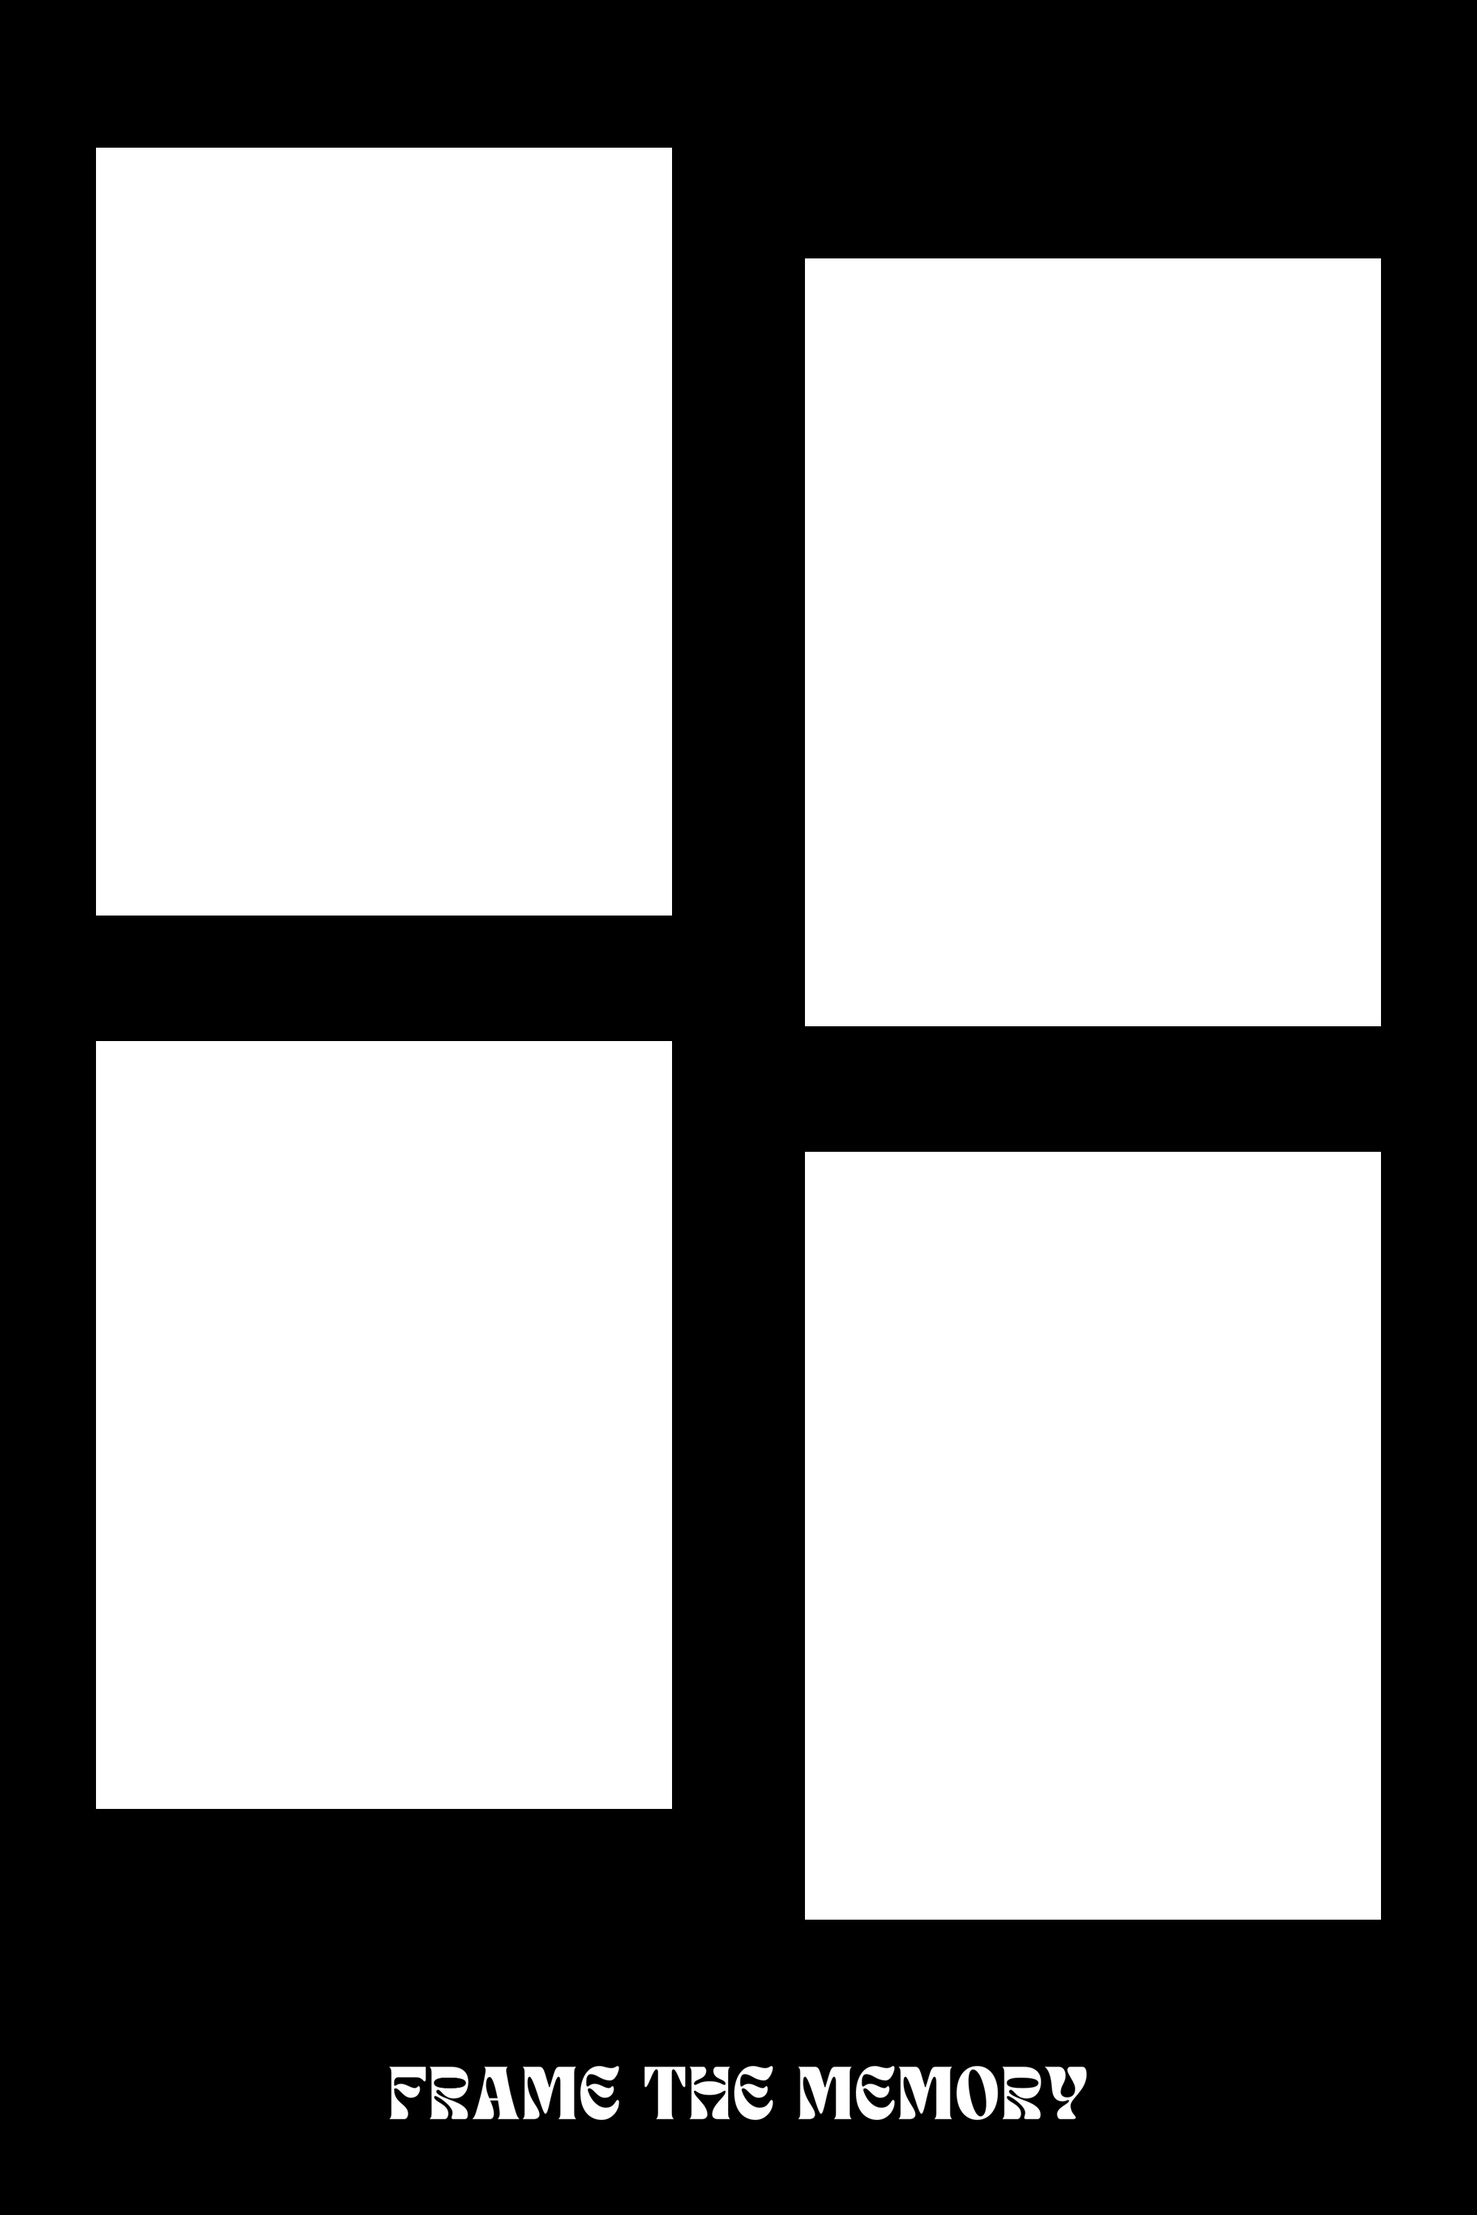
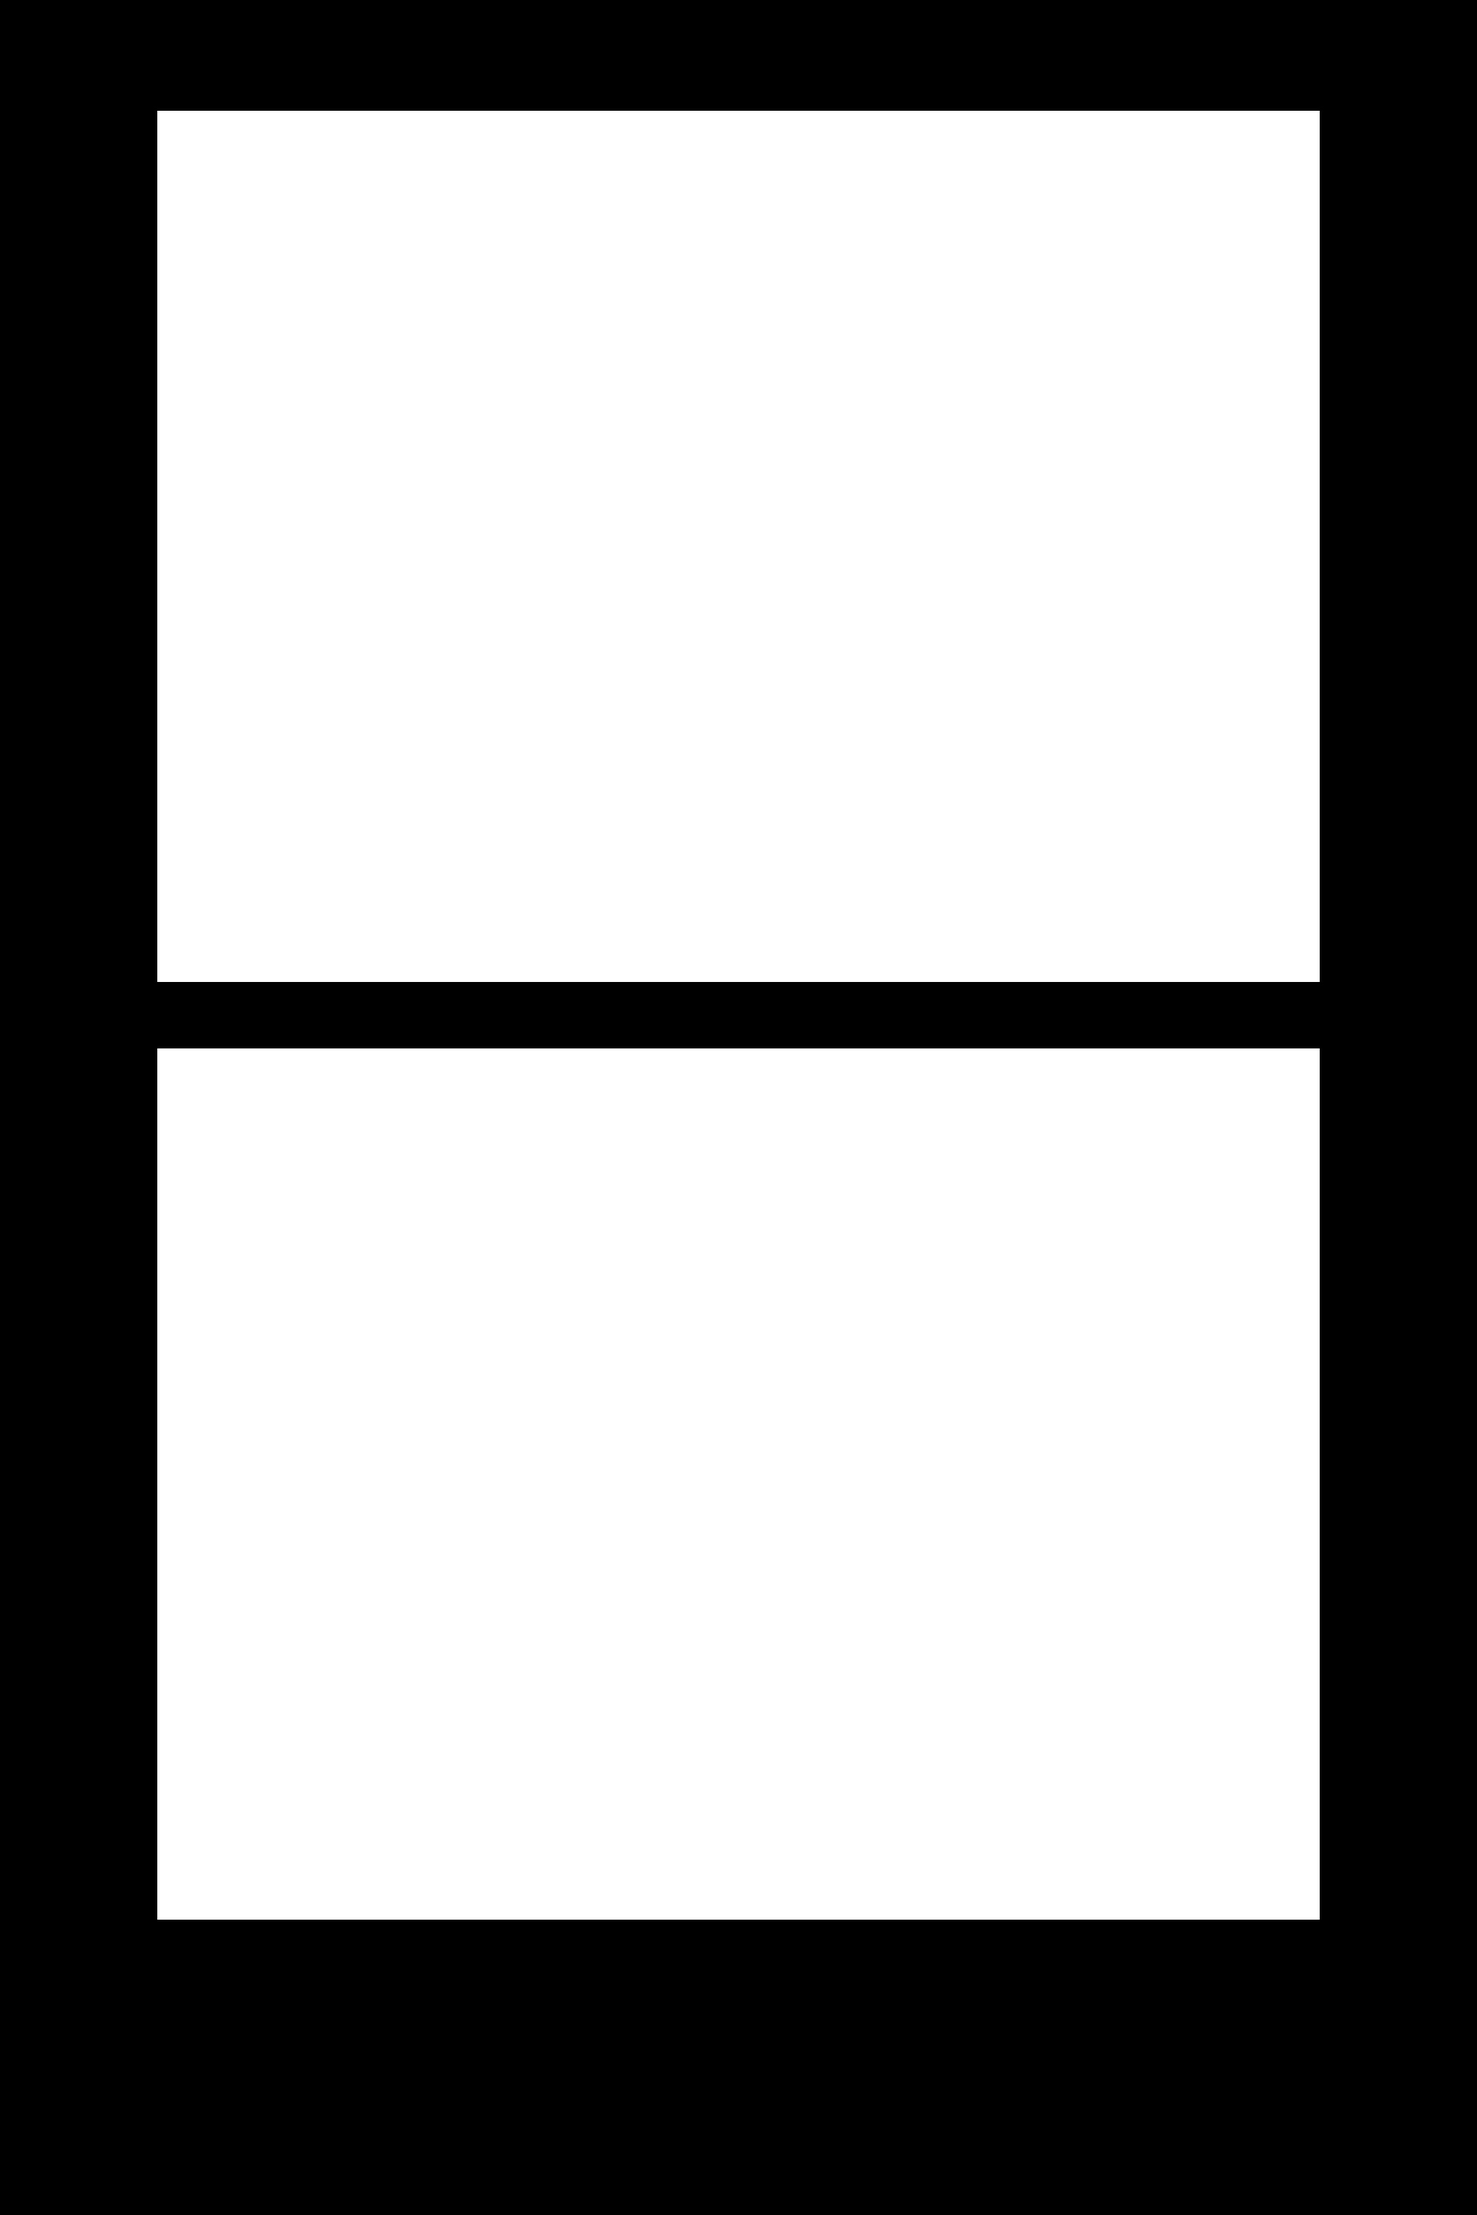
[UPDATE] 1,2,4cuts array화를 통한 컷 수 나누기 기능 추가

Changed region(s): [[0.062, 0.031, 0.961, 0.868], [0.248, 0.93, 0.744, 0.961]]

diff --git a/cloudWeb/templates/lab/ncuts/form.html b/cloudWeb/templates/lab/ncuts/form.html
@@ -43,8 +43,10 @@
         {% csrf_token %}
         <!-- 실제 파일 선택 창 대신 라벨을 클릭하면 파일 선택 창이 열림 -->
         <label for="ncuts_images" class="custom-file-upload">Choose Image</label>
+{#        <input type="file" name="ncuts_images" id="ncuts_images" accept=".jpg, .jpeg, .JPG" multiple onchange="updateFileName(this)">#}
         <input type="file" name="ncuts_images" id="ncuts_images" accept=".jpg, .jpeg, .JPG" multiple onchange="updateFileName(this)">
-        <span id="selectedFileName"></span> <!-- 파일 이름을 표시할 레이블 -->
+        <p id="fileCountWarning" style="display: none; color: red;">최대 4개까지만 선택할 수 있습니다.</p>
+        <span id="selectedFileNames"></span> <!-- 파일 이름을 표시할 레이블 -->
 {#        <hr>#}
         <h1></h1>
         <hr>
@@ -67,8 +69,22 @@
     <script>
         // 파일 선택 시 파일 이름을 표시하는 함수
         function updateFileName(input) {
-            var fileName = input.files[0].name; // 선택한 파일의 이름 가져오기
-            document.getElementById('selectedFileName').innerText = fileName; // 레이블에 파일 이름 표시
+            var fileNames = '';
+            for (var i = 0; i < input.files.length; i++) {
+                fileNames += input.files[i].name + ', ';
+            }
+            // 마지막 쉼표 제거
+            fileNames = fileNames.substring(0, fileNames.length - 2);
+            document.getElementById('selectedFileNames').innerText = fileNames; // 레이블에 파일 이름 표시
+            var files = input.files;
+            var fileCountWarning = document.getElementById("fileCountWarning");
+
+            if (files.length > 4) {
+                fileCountWarning.style.display = "block";
+                input.value = "";
+            } else {
+                fileCountWarning.style.display = "none";
+            }
         }
     </script>
 {#    <script>#}

diff --git a/cloudWeb/lab/NCutsGen/NCutsGen.py b/cloudWeb/lab/NCutsGen/NCutsGen.py
@@ -6,94 +6,157 @@ from ..RecSongGen import SongRecByAi_gemini_spotify
 sys.path.append("../")
 from ..FilmGen import FilmGen3
 class NCutsGen:
-    def __init__(self,qrC,qrBg,i1,i2,i3,i4):
+    def __init__(self,qrC,qrBg,pLst):
         print("this")
-        self.imgGenPath = i1
+        # for img in
+        # postedImgLst[0].image.path
+        self.imgGenPath = pLst[0].image.path
+        self.pLstLen = len(pLst)
+        self.imgs = ["" for _ in range(4)]
         # self.imgGenPath = i1.split(".")[0] + "_gen." + i1.split(".")[1]
         #set paper
         # paper size 6:4
         self.bgH = 3000
         self.bgW = 2000
-        # bg margin
-        self.bgMarginTopH=200
-        self.bgMarginW=130
-        self.bgMarginBottomH=400
-        # cross margin
-        self.bonusMargin=150
+        # # bg margin
+        # self.bgMarginTopH=200
+        # self.bgMarginW=130
+        # self.bgMarginBottomH=400
+        # # cross margin
+        # self.bonusMargin=150
         # 4cuts image 4:3
-        self.fgH=1040
-        self.fgW=780
+        if self.pLstLen==1:
+            self.fgH=2080
+            self.fgW=1560
+            # bg margin
+            self.bgMarginTopH = 290
+            self.bgMarginW = 220
+            self.bgMarginBottomH = 400
+            # cross margin
+            # self.bonusMargin = 150
+        if self.pLstLen==2:
+            self.fgH=1180
+            self.fgW=1574
+            # bg margin
+            self.bgMarginTopH = 150
+            self.bgMarginW = 213
+            self.bgMarginBottomH = 400
+            # cross margin
+            self.bonusMargin = 150
+        if self.pLstLen==3:
+            self.fgH=1040
+            self.fgW=780
+            # bg margin
+            self.bgMarginTopH = 200
+            self.bgMarginW = 130
+            self.bgMarginBottomH = 400
+            # cross margin
+            self.bonusMargin = 150
+        if self.pLstLen==4:
+            self.fgH=1040
+            self.fgW=780
+            # bg margin
+            self.bgMarginTopH = 200
+            self.bgMarginW = 130
+            self.bgMarginBottomH = 400
+            # cross margin
+            self.bonusMargin = 150
         # create Background
         # self.createBg()
-        self.bg=cv2.imread("static/lab/ncuts/bg2.jpg")
 
-        while True:
-            try:
-                self.i1 = FilmGen3.gen(i1, 1, self.fgW, self.fgH)
-                break
-            except Exception as e:
-                continue
-        while True:
-            try:
-                self.i2 = FilmGen3.gen(i2, 1, self.fgW, self.fgH)
-                break
-            except Exception as e:
-                continue
-        while True:
-            try:
-                self.i3 = FilmGen3.gen(i3, 1, self.fgW, self.fgH)
-                break
-            except Exception as e:
-                continue
-        while True:
-            try:
-                self.i4 = FilmGen3.gen(i4, 1, self.fgW, self.fgH)
-                break
-            except Exception as e:
-                continue
-        self.genedImg = self.putImage()
+        # while True:
+        for i in range(self.pLstLen):
+            while True:
+                try:
+                    self.imgs[i] = FilmGen3.gen(pLst[i].image.path, 1, self.fgW, self.fgH)
+                    break
+                except Exception as e:
+                    print(e)
+                    continue
+
+        if self.pLstLen==1:
+            self.bg=cv2.imread("static/lab/ncuts/bg1.jpg")
+            self.genedImg = self.putImage1()
+        elif self.pLstLen == 2:
+            self.bg=cv2.imread("static/lab/ncuts/bg2.jpg")
+            self.genedImg = self.putImage2()
+        elif self.pLstLen == 3:
+            self.bg=cv2.imread("static/lab/ncuts/bg3.jpg")
+            self.genedImg = self.putImage3()
+        elif self.pLstLen == 4:
+            self.bg=cv2.imread("static/lab/ncuts/bg4.jpg")
+            self.genedImg = self.putImage4()
+
         gen = SongRecByAi_gemini_spotify.SongRecByAi(self.imgGenPath,qrC,qrBg)
         self.songUrl = gen.songUrl
-    # def getSongUrl(self):
-    def createBg(self):
-        self.bg = np.zeros((self.bgH, self.bgW, 3), dtype=np.int64)
-        # 1행1열
-        self.bg[self.bgMarginTopH:self.bgMarginTopH + self.fgH, \
-        self.bgMarginW:self.bgMarginW + self.fgW] = 255
-        # 1행2열
-        self.bg[self.bgMarginTopH + self.bonusMargin:self.bgMarginTopH + self.bonusMargin + self.fgH, \
-        self.bgW - self.bgMarginW - self.fgW:self.bgW - self.bgMarginW] = 255
-        # 2행1열
-        self.bg[self.bgH - self.bgMarginBottomH - self.bonusMargin - self.fgH: \
-                self.bgH - self.bgMarginBottomH - self.bonusMargin, self.bgMarginW:self.bgMarginW + self.fgW] = 255
-        # 2행2열
-        self.bg[self.bgH - self.bgMarginBottomH - self.fgH:self.bgH - self.bgMarginBottomH, \
-        self.bgW - self.bgMarginW - self.fgW:self.bgW - self.bgMarginW] = 255
-    def putImage(self): # get numpy array
+    # ---------------------------
+    # Create BG module
+    # def createBg4(self):
+    #     self.bg = np.zeros((self.bgH, self.bgW, 3), dtype=np.int64)
+    #     # 1행1열
+    #     self.bg[self.bgMarginTopH:self.bgMarginTopH + self.fgH, \
+    #     self.bgMarginW:self.bgMarginW + self.fgW] = 255
+    #     # 1행2열
+    #     self.bg[self.bgMarginTopH + self.bonusMargin:self.bgMarginTopH + self.bonusMargin + self.fgH, \
+    #     self.bgW - self.bgMarginW - self.fgW:self.bgW - self.bgMarginW] = 255
+    #     # 2행1열
+    #     self.bg[self.bgH - self.bgMarginBottomH - self.bonusMargin - self.fgH: \
+    #             self.bgH - self.bgMarginBottomH - self.bonusMargin, self.bgMarginW:self.bgMarginW + self.fgW] = 255
+    #     # 2행2열
+    #     self.bg[self.bgH - self.bgMarginBottomH - self.fgH:self.bgH - self.bgMarginBottomH, \
+    #     self.bgW - self.bgMarginW - self.fgW:self.bgW - self.bgMarginW] = 255
+    #
+    # ---------------------------
+    def putImage1(self): # get numpy array
         genedImg = self.bg.copy()
-        # self.i1 = self.resizeImg(self.i1)
-        # self.i2 = self.resizeImg(self.i2)
-        # self.i3 = self.resizeImg(self.i3)
-        # self.i4 = self.resizeImg(self.i4)
+        genedImg[self.bgMarginTopH:self.bgMarginTopH + self.fgH, \
+        self.bgMarginW:self.bgMarginW + self.fgW] = self.imgs[0]
+        cv2.imwrite(self.imgGenPath, genedImg)
+        return genedImg
+
+    def putImage2(self): # get numpy array
+        genedImg = self.bg.copy()
         # 1행1열
         genedImg[self.bgMarginTopH:self.bgMarginTopH + self.fgH, \
-        self.bgMarginW:self.bgMarginW + self.fgW] = self.i1
+        self.bgMarginW:self.bgMarginW + self.fgW] = self.imgs[0]
+        # 1행2열
+        genedImg[self.bgH - self.bgMarginBottomH - self.fgH:self.bgH - self.bgMarginBottomH, \
+        self.bgW - self.bgMarginW - self.fgW:self.bgW - self.bgMarginW] = self.imgs[1]
+        cv2.imwrite(self.imgGenPath, genedImg)
+        return genedImg
+
+    def putImage3(self): # get numpy array
+        genedImg = self.bg.copy()
+        # 1행1열
+        genedImg[self.bgMarginTopH:self.bgMarginTopH + self.fgH, \
+        self.bgMarginW:self.bgMarginW + self.fgW] = self.imgs[0]
         # 1행2열
         genedImg[self.bgMarginTopH + self.bonusMargin:self.bgMarginTopH + self.bonusMargin + self.fgH, \
-        self.bgW - self.bgMarginW - self.fgW:self.bgW - self.bgMarginW] = self.i2
+        self.bgW - self.bgMarginW - self.fgW:self.bgW - self.bgMarginW] = self.imgs[1]
         # 2행1열
         genedImg[self.bgH - self.bgMarginBottomH - self.bonusMargin - self.fgH: \
-                self.bgH - self.bgMarginBottomH - self.bonusMargin, self.bgMarginW:self.bgMarginW + self.fgW] = self.i3
-        # 2행2열
-        genedImg[self.bgH - self.bgMarginBottomH - self.fgH:self.bgH - self.bgMarginBottomH, \
-        self.bgW - self.bgMarginW - self.fgW:self.bgW - self.bgMarginW] = self.i4
+                self.bgH - self.bgMarginBottomH - self.bonusMargin, self.bgMarginW:self.bgMarginW + self.fgW] = self.imgs[2]
         cv2.imwrite(self.imgGenPath, genedImg)
         # self.genedImg = genedImg
         return genedImg
-    # FilmGen2.ColorGen2 에서 리사이즈 되게 설계됨
-    # def resizeImg(self, img):
-    #     img = cv2.resize(img, (self.fgW, self.fgH))
-    #     return img
+
+    def putImage4(self): # get numpy array
+        genedImg = self.bg.copy()
+        # 1행1열
+        genedImg[self.bgMarginTopH:self.bgMarginTopH + self.fgH, \
+        self.bgMarginW:self.bgMarginW + self.fgW] = self.imgs[0]
+        # 1행2열
+        genedImg[self.bgMarginTopH + self.bonusMargin:self.bgMarginTopH + self.bonusMargin + self.fgH, \
+        self.bgW - self.bgMarginW - self.fgW:self.bgW - self.bgMarginW] = self.imgs[1]
+        # 2행1열
+        genedImg[self.bgH - self.bgMarginBottomH - self.bonusMargin - self.fgH: \
+                self.bgH - self.bgMarginBottomH - self.bonusMargin, self.bgMarginW:self.bgMarginW + self.fgW] = self.imgs[2]
+        # 2행2열
+        genedImg[self.bgH - self.bgMarginBottomH - self.fgH:self.bgH - self.bgMarginBottomH, \
+        self.bgW - self.bgMarginW - self.fgW:self.bgW - self.bgMarginW] = self.imgs[3]
+        cv2.imwrite(self.imgGenPath, genedImg)
+        # self.genedImg = genedImg
+        return genedImg
 
 # test = NCutsGen(255,0,"i1.jpg", "i2.jpg", "i3.jpg", "i4.jpg")
 # i1=cv2.imread("i1.jpg")

diff --git a/cloudWeb/lab/views.py b/cloudWeb/lab/views.py
@@ -171,29 +171,25 @@ def upload_ncuts_image(request):
         postedImgLst = list()
         for img in imgs:
             postedImgLst.append(NCutsPost.objects.create(image=img))
-        # print("posted")
-        # #
-        # gen = NCutsGen.NCutsGen(color, background, postedImgLst[0].image.path, postedImgLst[1].image.path,
-        #                         postedImgLst[2].image.path, postedImgLst[3].image.path)
-        # print("gened")
-        # songUrl = gen.songUrl
-        # print(songUrl)
-        # #
-        try:
-            gen = NCutsGen.NCutsGen(color,background,postedImgLst[0].image.path,postedImgLst[1].image.path,postedImgLst[2].image.path,postedImgLst[3].image.path)
-            nsongUrl = gen.songUrl
-        except Exception as e:
-            try:
-                gen = NCutsGen.NCutsGen(color, background, postedImgLst[0].image.pathpostedImgLst[1].image.path,
-                                        postedImgLst[2].image.path, postedImgLst[3].image.path)
-                nsongUrl = gen.songUrl
-            except Exception as e:
-                try:
-                    gen = NCutsGen.NCutsGen(color, background, postedImgLst[0].image.pathpostedImgLst[1].image.path,
-                                            postedImgLst[2].image.path, postedImgLst[3].image.path)
-                    nsongUrl = gen.songUrl
-                except Exception as e:
-                    return render(request, 'lab/ncuts/nCutsGenError.html')
+
+        # 어레이로 넘기기
+        gen = NCutsGen.NCutsGen(color, background, postedImgLst)
+        nsongUrl = gen.songUrl
+        # try:
+        #     gen = NCutsGen.NCutsGen(color,background,postedImgLst[0].image.path,postedImgLst[1].image.path,postedImgLst[2].image.path,postedImgLst[3].image.path)
+        #     nsongUrl = gen.songUrl
+        # except Exception as e:
+        #     try:
+        #         gen = NCutsGen.NCutsGen(color, background, postedImgLst[0].image.pathpostedImgLst[1].image.path,
+        #                                 postedImgLst[2].image.path, postedImgLst[3].image.path)
+        #         nsongUrl = gen.songUrl
+        #     except Exception as e:
+        #         try:
+        #             gen = NCutsGen.NCutsGen(color, background, postedImgLst[0].image.pathpostedImgLst[1].image.path,
+        #                                     postedImgLst[2].image.path, postedImgLst[3].image.path)
+        #             nsongUrl = gen.songUrl
+        #         except Exception as e:
+        #             return render(request, 'lab/ncuts/nCutsGenError.html')
         generated_path_split = postedImgLst[0].image.url.split('.')
         generated_path = generated_path_split[0] + "_gen." + generated_path_split[1]
         return render(request, 'lab/ncuts/nCutsGened.html', {'nCutsGened_image_url': generated_path, 'pk':postedImgLst[0].pk, 'songUrl':nsongUrl}, )
